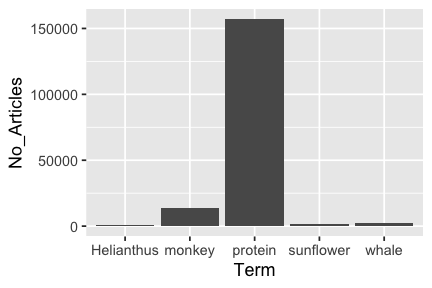
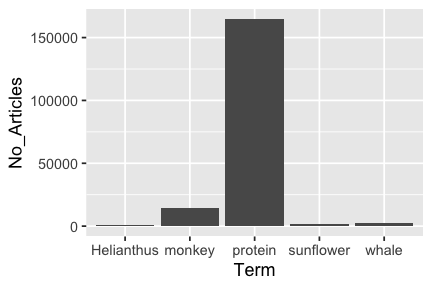
refresh vignettes; fix bad urls, rbuildignore readme.md, etc

diff --git a/README.md b/README.md
@@ -3,11 +3,11 @@ rplos
 
 
 
-[![Project Status: Active – The project has reached a stable, usable state and is being actively developed.](http://www.repostatus.org/badges/latest/active.svg)](http://www.repostatus.org/#active)
+[![Project Status: Active – The project has reached a stable, usable state and is being actively developed.](https://www.repostatus.org/badges/latest/active.svg)](https://www.repostatus.org/#active)
 [![cran checks](https://cranchecks.info/badges/worst/rplos)](https://cranchecks.info/pkgs/rplos)
 [![R-check](https://github.com/ropensci/rplos/workflows/R-check/badge.svg)](https://github.com/ropensci/rplos/actions?query=workflow%3AR-check)
 [![codecov.io](https://codecov.io/github/ropensci/rplos/coverage.svg?branch=master)](https://codecov.io/github/ropensci/rplos?branch=master)
-[![rstudio mirror downloads](https://cranlogs.r-pkg.org/badges/rplos)](https://github.com/metacran/cranlogs.app)
+[![rstudio mirror downloads](https://cranlogs.r-pkg.org/badges/rplos)](https://github.com/r-hub/cranlogs.app)
 [![cran version](https://www.r-pkg.org/badges/version/rplos)](https://cran.r-project.org/package=rplos)
 
 ## Install
@@ -39,13 +39,13 @@ library("rplos")
 
 You used to need a key to use `rplos` - you no longer do as of 2015-01-13 (or `v0.4.5.999`).
 
-rplos tutorial: <http://ropensci.org/tutorials/rplos_tutorial.html>
+rplos vignetttes: <https://docs.ropensci.org/rplos/>
 
 PLOS API documentation: <http://api.plos.org/>
 
 PLOS Solr schema is at <https://gist.github.com/openAccess/9e76aa7fa6135be419968b1372c86957> but is 1.5 years old so may not be up to date.
 
-Crossref API documentation [here](https://github.com/CrossRef/rest-api-doc/blob/master/rest_api.md), and [here](http://help.crossref.org/#home). Note that we are working on a new package [rcrossref](https://github.com/ropensci/rcrossref) ([on CRAN](https://cran.r-project.org/package=rcrossref)) with a much fuller implementation of R functions for all Crossref endpoints.
+Crossref API documentation can be found at <https://github.com/CrossRef/rest-api-doc>. See also [rcrossref](https://github.com/ropensci/rcrossref) ([on CRAN](https://cran.r-project.org/package=rcrossref)) with a much fuller implementation of R functions for all Crossref endpoints.
 
 ## Throttling
 
@@ -70,7 +70,7 @@ searchplos('ecology', 'id,publication_date', limit = 5)
 #> # A tibble: 1 x 2
 #>   numFound start
 #>      <int> <int>
-#> 1    54485     0
+#> 1    55873     0
 #> 
 #> $data
 #> # A tibble: 5 x 2
@@ -79,8 +79,8 @@ searchplos('ecology', 'id,publication_date', limit = 5)
 #> 1 10.1371/journal.pone.0001248 2007-11-28T00:00:00Z
 #> 2 10.1371/journal.pone.0059813 2013-04-24T00:00:00Z
 #> 3 10.1371/journal.pone.0080763 2013-12-10T00:00:00Z
-#> 4 10.1371/journal.pone.0220747 2019-08-01T00:00:00Z
-#> 5 10.1371/journal.pone.0155019 2016-05-11T00:00:00Z
+#> 4 10.1371/journal.pone.0246749 2021-02-08T00:00:00Z
+#> 5 10.1371/journal.pone.0220747 2019-08-01T00:00:00Z
 ```
 
 Get DOIs for full article in PLoS One
@@ -93,17 +93,17 @@ searchplos(q="*:*", fl='id', fq=list('journal_key:PLoSONE',
 #> # A tibble: 1 x 2
 #>   numFound start
 #>      <int> <int>
-#> 1   241782     0
+#> 1   246927     0
 #> 
 #> $data
 #> # A tibble: 5 x 1
 #>   id                          
 #>   <chr>                       
-#> 1 10.1371/journal.pone.0000003
-#> 2 10.1371/journal.pone.0000004
-#> 3 10.1371/journal.pone.0000012
-#> 4 10.1371/journal.pone.0000015
-#> 5 10.1371/journal.pone.0000018
+#> 1 10.1371/journal.pone.0002399
+#> 2 10.1371/journal.pone.0002401
+#> 3 10.1371/journal.pone.0002403
+#> 4 10.1371/journal.pone.0002405
+#> 5 10.1371/journal.pone.0002407
 ```
 
 Query to get some PLOS article-level metrics, notice difference between two outputs
@@ -117,22 +117,22 @@ head(out$data)
 #> # A tibble: 6 x 3
 #>   id                           alm_twitterCount counter_total_all
 #>   <chr>                                   <int>             <int>
-#> 1 10.1371/journal.pcbi.0040029                0              5463
-#> 2 10.1371/journal.pcbi.0040032                0              5593
-#> 3 10.1371/journal.pcbi.0040033               11             70239
-#> 4 10.1371/journal.pcbi.0040036                0              7795
-#> 5 10.1371/journal.pcbi.0040038                0              7035
-#> 6 10.1371/journal.pbio.1000449                0              8816
+#> 1 10.1371/journal.pcbi.0020071                0             17862
+#> 2 10.1371/journal.pbio.1000152                0              7180
+#> 3 10.1371/journal.pbio.1000153                5             27702
+#> 4 10.1371/journal.pbio.1000159                0             14256
+#> 5 10.1371/journal.pbio.1000165                8             30629
+#> 6 10.1371/journal.pbio.1000166                0              6884
 head(out_sorted$data)
 #> # A tibble: 6 x 3
 #>   id                           alm_twitterCount counter_total_all
 #>   <chr>                                   <int>             <int>
-#> 1 10.1371/journal.pmed.0020124             3792           3147637
-#> 2 10.1371/journal.pone.0133079              308           1877590
-#> 3 10.1371/journal.pcbi.1003149              216           1680291
-#> 4 10.1371/journal.pmed.1000376                9           1087228
-#> 5 10.1371/journal.pone.0141854             3790            989374
-#> 6 10.1371/journal.pcbi.0030102               65            973049
+#> 1 10.1371/journal.pmed.0020124             3890           3226572
+#> 2 10.1371/journal.pone.0133079              312           2481307
+#> 3 10.1371/journal.pcbi.1003149              216           1766230
+#> 4 10.1371/journal.pmed.1000376                9           1213573
+#> 5 10.1371/journal.pone.0141854             3804            996693
+#> 6 10.1371/journal.pcbi.0030102               65            986338
 ```
 
 A list of articles about social networks that are popular on a social network
@@ -146,22 +146,22 @@ searchplos(q="*:*",fl=c('id','alm_twitterCount'),
 #> # A tibble: 1 x 2
 #>   numFound start
 #>      <int> <int>
-#> 1       63     0
+#> 1       64     0
 #> 
 #> $data
 #> # A tibble: 10 x 2
 #>    id                           alm_twitterCount
 #>    <chr>                                   <int>
-#>  1 10.1371/journal.pmed.1000316             1194
+#>  1 10.1371/journal.pmed.1000316             1199
 #>  2 10.1371/journal.pone.0069841              896
 #>  3 10.1371/journal.pone.0073791             1884
 #>  4 10.1371/journal.pcbi.1005399              604
-#>  5 10.1371/journal.pone.0090315              464
-#>  6 10.1371/journal.pone.0118093              133
-#>  7 10.1371/journal.pone.0150989              245
-#>  8 10.1371/journal.pbio.1002195              778
-#>  9 10.1371/journal.pone.0162678              172
-#> 10 10.1371/journal.pbio.1001535             2144
+#>  5 10.1371/journal.pcbi.1007513              122
+#>  6 10.1371/journal.pone.0236517              123
+#>  7 10.1371/journal.pbio.1002195              778
+#>  8 10.1371/journal.pone.0118093              133
+#>  9 10.1371/journal.pone.0155923              200
+#> 10 10.1371/journal.pone.0162678              172
 ```
 
 Show all articles that have these two words less then about 15 words apart
@@ -173,7 +173,7 @@ searchplos(q='everything:"sports alcohol"~15', fl='title', fq='doc_type:full', l
 #> # A tibble: 1 x 2
 #>   numFound start
 #>      <int> <int>
-#> 1      157     0
+#> 1      163     0
 #> 
 #> $data
 #> # A tibble: 3 x 1
@@ -193,7 +193,7 @@ searchplos(q='everything:"sports alcohol"~7', fl='title', fq='doc_type:full', li
 #> # A tibble: 1 x 2
 #>   numFound start
 #>      <int> <int>
-#> 1       87     0
+#> 1       91     0
 #> 
 #> $data
 #> # A tibble: 3 x 1
@@ -214,17 +214,17 @@ searchplos(q='*:*', fl=c('id','article_type'),
 #> # A tibble: 1 x 2
 #>   numFound start
 #>      <int> <int>
-#> 1  2389062     0
+#> 1  2434439     0
 #> 
 #> $data
 #> # A tibble: 5 x 2
-#>   id                                        article_type    
-#>   <chr>                                     <chr>           
-#> 1 10.1371/journal.pbio.1000436/title        Research Article
-#> 2 10.1371/journal.pbio.1000436/abstract     Research Article
-#> 3 10.1371/journal.pbio.1000436/references   Research Article
-#> 4 10.1371/journal.pbio.1000436/body         Research Article
-#> 5 10.1371/journal.pbio.1000436/introduction Research Article
+#>   id                                                  article_type    
+#>   <chr>                                               <chr>           
+#> 1 10.1371/journal.pbio.1000146/title                  Unsolved Mystery
+#> 2 10.1371/journal.pbio.1000146/abstract               Unsolved Mystery
+#> 3 10.1371/journal.pbio.1000146/references             Unsolved Mystery
+#> 4 10.1371/journal.pbio.1000146/body                   Unsolved Mystery
+#> 5 10.1371/journal.pbio.1000146/supporting_information Unsolved Mystery
 ```
 
 ### Faceted search
@@ -242,21 +242,21 @@ facetplos(q='alcohol', facet.field=c('journal','subject'), facet.limit=5)
 #> # A tibble: 5 x 2
 #>   term                             value
 #>   <chr>                            <chr>
-#> 1 plos one                         30838
-#> 2 plos genetics                    688  
-#> 3 plos medicine                    678  
-#> 4 plos neglected tropical diseases 607  
-#> 5 plos pathogens                   446  
+#> 1 plos one                         31656
+#> 2 plos genetics                    702  
+#> 3 plos medicine                    699  
+#> 4 plos neglected tropical diseases 637  
+#> 5 plos pathogens                   459  
 #> 
 #> $facet_fields$subject
 #> # A tibble: 5 x 2
 #>   term                          value
 #>   <chr>                         <chr>
-#> 1 biology and life sciences     32440
-#> 2 medicine and health sciences  29475
-#> 3 research and analysis methods 16985
-#> 4 biochemistry                  14343
-#> 5 physical sciences             12192
+#> 1 biology and life sciences     33275
+#> 2 medicine and health sciences  30309
+#> 3 research and analysis methods 17340
+#> 4 biochemistry                  14587
+#> 5 physical sciences             12502
 #> 
 #> 
 #> $facet_pivot
@@ -292,16 +292,16 @@ facetplos(q='*:*', url=url, facet.range='counter_total_all',
 #> # A tibble: 10 x 2
 #>    term  value
 #>    <chr> <chr>
-#>  1 5     24   
-#>  2 15    5    
-#>  3 25    15   
-#>  4 35    34   
-#>  5 45    38   
+#>  1 5     39   
+#>  2 15    12   
+#>  3 25    33   
+#>  4 35    47   
+#>  5 45    47   
 #>  6 55    44   
-#>  7 65    70   
-#>  8 75    109  
-#>  9 85    120  
-#> 10 95    160
+#>  7 65    59   
+#>  8 75    80   
+#>  9 85    114  
+#> 10 95    136
 ```
 
 ### Highlight searches
@@ -385,22 +385,22 @@ plossubject(q='marine ecology',  fl = c('id','journal'), limit = 10)
 #> # A tibble: 1 x 2
 #>   numFound start
 #>      <int> <int>
-#> 1     2226     0
+#> 1     2287     0
 #> 
 #> $data
 #> # A tibble: 10 x 2
 #>    id                                                  journal 
 #>    <chr>                                               <chr>   
-#>  1 10.1371/journal.pone.0092590/title                  PLoS ONE
-#>  2 10.1371/journal.pone.0092590/abstract               PLoS ONE
-#>  3 10.1371/journal.pone.0092590/references             PLoS ONE
-#>  4 10.1371/journal.pone.0092590/body                   PLoS ONE
-#>  5 10.1371/journal.pone.0092590/introduction           PLoS ONE
-#>  6 10.1371/journal.pone.0092590/results_and_discussion PLoS ONE
-#>  7 10.1371/journal.pone.0092590/materials_and_methods  PLoS ONE
-#>  8 10.1371/journal.pone.0092590/conclusions            PLoS ONE
-#>  9 10.1371/journal.pone.0092590                        PLoS ONE
-#> 10 10.1371/journal.pone.0149852/body                   PLOS ONE
+#>  1 10.1371/journal.pone.0092590                        PLoS ONE
+#>  2 10.1371/journal.pone.0092590/title                  PLoS ONE
+#>  3 10.1371/journal.pone.0092590/abstract               PLoS ONE
+#>  4 10.1371/journal.pone.0092590/references             PLoS ONE
+#>  5 10.1371/journal.pone.0092590/body                   PLoS ONE
+#>  6 10.1371/journal.pone.0092590/introduction           PLoS ONE
+#>  7 10.1371/journal.pone.0092590/results_and_discussion PLoS ONE
+#>  8 10.1371/journal.pone.0092590/materials_and_methods  PLoS ONE
+#>  9 10.1371/journal.pone.0092590/conclusions            PLoS ONE
+#> 10 10.1371/journal.pone.0149852                        PLOS ONE
 ```
 
 However, you can always just do this in `searchplos()` like `searchplos(q = "subject:science")`. See also the `fq` parameter. The above convenience functions are simply wrappers around `searchplos`, so take all the same parameters.
@@ -413,11 +413,11 @@ Search with term _marine ecology_, by field _subject_, and limit to 5 results
 ```r
 plosviews(search='marine ecology', byfield='subject', limit=5)
 #>                             id counter_total_all
-#> 3 10.1371/journal.pone.0167128              5057
-#> 4 10.1371/journal.pone.0012946              5259
-#> 1 10.1371/journal.pone.0092590             12601
-#> 2 10.1371/journal.pone.0149852             18139
-#> 5 10.1371/journal.pone.0011372             27681
+#> 5 10.1371/journal.pone.0012946              5309
+#> 3 10.1371/journal.pone.0167128              5423
+#> 1 10.1371/journal.pone.0092590             12839
+#> 2 10.1371/journal.pone.0149852             18954
+#> 4 10.1371/journal.pone.0011372             28244
 ```
 
 ### Visualize
@@ -429,11 +429,11 @@ Visualize word use across articles
 plosword(list('monkey','Helianthus','sunflower','protein','whale'), vis = 'TRUE')
 #> $table
 #>   No_Articles       Term
-#> 1       14310     monkey
-#> 2         634 Helianthus
-#> 3        1845  sunflower
-#> 4      162008    protein
-#> 5        2093      whale
+#> 1       14528     monkey
+#> 2         646 Helianthus
+#> 3        1876  sunflower
+#> 4      164537    protein
+#> 5        2142      whale
 #> 
 #> $plot
 ```
@@ -463,5 +463,3 @@ res <- searchplos(q='*:*', limit = 2000, progress = httr::progress())
 This package is part of a richer suite called [fulltext](https://github.com/ropensci/fulltext), along with several other packages, that provides the ability to search for and retrieve full text of open access scholarly articles. We recommend using `fulltext` as the primary R interface to `rplos` unless your needs are limited to this single source.
 
 ---
-
-[![rofooter](https://ropensci.org/public_images/github_footer.png)](https://ropensci.org)
